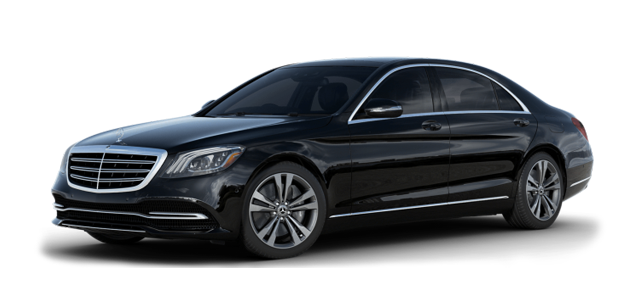
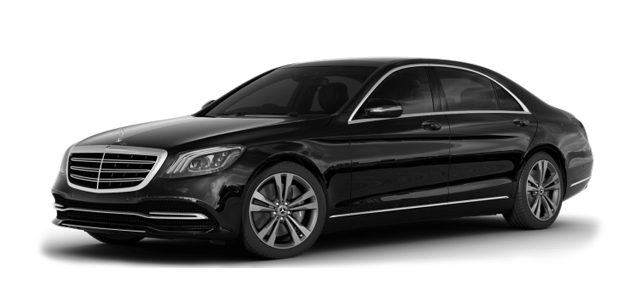
image color fix

diff --git a/src/app/components/Footer/Footer.jsx b/src/app/components/Footer/Footer.jsx
@@ -53,7 +53,10 @@ const Footer = () => {
       <div className='footer-bottom'>
         <div className="address-content">
           <p className="address flex">
-            {t('title')} &copy;{new Date().getFullYear()}. {t('rightsreserved')}
+            {t('title')} &copy;{new Date().getFullYear()}.
+          </p>
+          <p className="address flex">
+          {t('rightsreserved')}
           </p>
         </div>
         <Link href="mailto:contact@jays-transport.fr" className="address-content">
